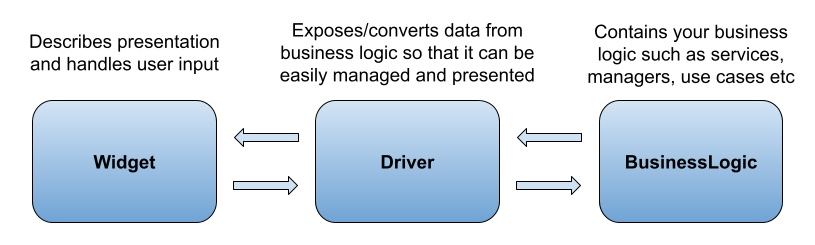
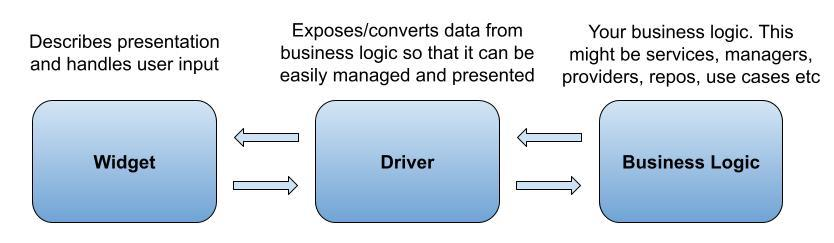
Feature/updates widget driver readme (#131)
* Updates the readme for the widget_driver

* Adds min versions to widget_driver_generator dependencies

* Updates the order in which the DependencyResolver resolves.. First it tries out mock now during testing

* Adds flutter-style preprocesser for removing of TestDriver code when running ReleaseBuilds

* Updates gitignore to exclude some macOS-example-app files

diff --git a/widget_driver/lib/src/dependency_resolver.dart b/widget_driver/lib/src/dependency_resolver.dart
@@ -1,32 +1,34 @@
 import 'package:flutter/material.dart';
 import 'utils/runtime_environment_info.dart';
 
-/// Use this class to resolve dependencies in your widgets/drivers.
+/// You can use this class to resolve dependencies in your widgets/drivers.
 /// This class offers 2 approaches to help you write better tests:
 ///
 /// First:
 /// If you resolve dependencies in your widgets, then this class adds a safe way to resolve these dependencies
 /// during testing where ancestor widgets are not forced to provide a mocked instances of your dependencies.
+/// This is done with the use of Test Default Values.
 ///
 /// Second:
-/// If you resolve dependencies in your drivers where you don't know exactly how to inject new values for these
+/// If you resolve dependencies in your drivers where you don't know exactly how to inject override/mock values for these
 /// dependencies, then this class helps you provide an easy way to inject these dependencies during testing.
 ///
 ///
 /// How it works:
-/// When you are not running tests, then the `DependencyResolver` will just
+/// When you are not running tests, then the [DependencyResolver] will just
 /// get the dependency instance according to the provided builder method.
 ///
-/// But, during testing the `DependencyResolver` will first try to get the dependency instance using your builder,
-/// but if this fails and throws (because for example no ancestor widget registered the dependency),
-/// then the `DependencyResolver` will:
+/// But, during testing the [DependencyResolver] will do this:
 ///
-/// 1: Try to find the dependency using the `tryToGetDependencyFromBuildContext` method.
-/// In here you can specify yourself how this look up should work. E.g. you could use the Provider package and
-/// look up the widget tree using `context.read<MyDependency>()`.
-/// If the dependency is found, then it is returned and used. Otherwise it continues to the second approach.
+/// 1: First it will check if someone registered a custom instance for the given type
+/// using the [tryToGetDependencyFromBuildContext] method. If so then that is used and returned.
+/// --> You can use this approach to inject mock values.
 ///
-/// 2: In the second approach it will check if there is a registered test default builder for the given dependency.
+/// 2: If no mock override was provided, then it will try to get the dependency instance using your builder.
+/// If that works and the dependency could be resolved, then it gets returned.
+///
+/// 3: If the normal builder fails to resolve the real dependency, then as a final step, the the [DependencyResolver]
+/// will check if there is a registered test default builder for the given dependency.
 /// If that exists, then it tries run that builder and return the value.
 /// If there is no registered test default builder, then the original error is thrown.
 ///
@@ -36,10 +38,10 @@ import 'utils/runtime_environment_info.dart';
 /// 1 - Widget Example:
 ///
 /// This is how you use this in your widget where you resolve dependencies:
-/// Step one: At the bottom of your widget class, create a subclass of `DependencyResolver` and implement the
-/// `registerTestDefaultFallbackValues` method. In this method you register the test default instances.
-/// This should be an empty implementation instance. Like a mock object.
-/// You typically would only have one concrete implementation of `DependencyResolver` per widget where you use it.
+/// Step one: At the bottom of your widget class, create a subclass of [DependencyResolver] and implement the
+/// [registerTestDefaultFallbackValues] method. In this method you register the test default instances.
+/// This should be an "empty implementation" instance. Like a mock object.
+/// You typically would only have one concrete implementation of [DependencyResolver] per widget where you use it.
 ///
 /// ```dart
 /// class MyServiceProviderWidget extends StatelessWidget {
@@ -58,7 +60,7 @@ import 'utils/runtime_environment_info.dart';
 /// class TestDefaultMyService extends EmptyDefault implements TestDefaultMyService {}
 /// ```
 ///
-/// And then you use this concrete version of `DependencyResolver` in your widget to create that instance.
+/// And then you use this concrete version of [DependencyResolver] in your widget to create that instance.
 /// Like this:
 ///
 /// ```dart
@@ -79,7 +81,7 @@ import 'utils/runtime_environment_info.dart';
 ///
 /// BUT: if you run this during tests, and you never registered any type for `SomeStuff` in the buildContext.
 /// Normally, this would break your test build and throw an exception. In this case however, we will use your
-/// test default instance of your `MyService`, provided in the registerTestDefaultBuilder() method.
+/// test default instance of your `MyService`, provided in the [registerTestDefaultBuilder] method.
 /// This is useful since it simplifies the WidgetTesting for any ancestor widget which might have your widget
 /// as a child. Since normally, all ancestor widgets would need to provide all the dependencies to all their children.
 /// Using this approach how ever, in testing, your ancestor
@@ -99,8 +101,8 @@ import 'utils/runtime_environment_info.dart';
 /// to create a lot of logic above your driver and wrap it in some localization providing widget.
 /// This adds a lot of clutter-setup-mock-code to your driver tests.
 ///
-/// The `DependencyResolver` can help you here. Create a shared `DependencyResolver` and override the
-/// `tryToGetDependencyFromBuildContext` method, and in there, for example use the Provider package like this:
+/// The [DependencyResolver] can help you here. Create a shared [DependencyResolver] and override the
+/// [tryToGetDependencyFromBuildContext] method, and in there, for example use the Provider package like this:
 ///
 /// ```dart
 /// class Resolver extends DependencyResolver {
@@ -139,14 +141,24 @@ abstract class DependencyResolver {
 
   /// When running normally (outside of tests) this returns the instance which your builder returns.
   ///
-  /// During tests, this tries to return the instance which your builder returns.
-  /// But if this fails for some reason (e.g. you did not provide a mock version of that type),
-  /// then this method:
+  /// During tests, this tries to return a mocked version if it exists.
+  /// If there is no mock then it tries to return the instance which your builder returns.
   ///
-  /// First: Tries to return the dependency for the given type using the `tryToGetDependencyFromBuildContext` method.
-  /// Second: Tries to return the registered test default value for the given type.
-  /// Finally: If of both these fail, then this method throws the exception which was thrown by the builder method.
+  /// But if this fails for some reason (e.g. you did not provide a mock version of that type),
+  /// then it tries to return the registered test default value for the given type.
+  ///
+  /// Finally, if there is no test default value,
+  /// then this method throws the exception which was thrown by the builder method.
   T get<T>(T Function() builder) {
+    final isRunningInTest = _environmentInfo.isRunningInTestEnvironment();
+
+    if (isRunningInTest) {
+      final buildContextInstance = tryToGetDependencyFromBuildContext<T>(_context);
+      if (buildContextInstance != null) {
+        return buildContextInstance;
+      }
+    }
+
     try {
       final T value = builder();
       return value;
@@ -154,13 +166,8 @@ abstract class DependencyResolver {
       // No dependency could be loaded from the provided builder.
       // Probably since the builder tries to access a dependency from the BuildContext which was not there.
       // This is a common issue when ancestor widgets renders child widgets which tries to resolve dependencies.
-
-      // If we are running tests, then try to return the dependency from build context or test default value.
-      if (_environmentInfo.isRunningInTestEnvironment()) {
-        final buildContextInstance = tryToGetDependencyFromBuildContext<T>(_context);
-        if (buildContextInstance != null) {
-          return buildContextInstance;
-        }
+      // If we are running tests, then try to return the test default value.
+      if (isRunningInTest) {
         final testDefaultInstance = _tryToGetTestDefaultInstance<T>();
         if (testDefaultInstance != null) {
           return testDefaultInstance;
@@ -186,11 +193,13 @@ abstract class DependencyResolver {
   /// ```
   ///
   /// where the `TestDefaultMyService` and `TestDefaultThemeData` are some empty/mock-like fake implementations.
+  @protected
   void registerTestDefaultFallbackValues();
 
   /// Call this to register a builder which creates a test default instance for a given type.
   /// This builder/created-instance is used in testing when the normal
   /// `DependencyResolver-get` method fails to create your dependency.
+  @protected
   void registerTestDefaultBuilder<T>(T Function() builder) {
     _defaultTestValueMap[T] = builder;
   }
@@ -211,6 +220,7 @@ abstract class DependencyResolver {
   ///     }
   /// }
   /// ```
+  @protected
   T? tryToGetDependencyFromBuildContext<T>(BuildContext context);
 
   T? _tryToGetTestDefaultInstance<T>() {

diff --git a/widget_driver/test/dependency_resolver_test.dart b/widget_driver/test/dependency_resolver_test.dart
@@ -244,10 +244,9 @@ void main() {
       });
 
       group('When TestDefault is registered and dependency from context:', () {
-        testWidgets('Returns dependency from builder when builder does not throw.', (tester) async {
-          const expectedStringDependency = 'Some string I want to inject';
+        testWidgets('Returns dependency from BuildContext when builder does not throw.', (tester) async {
           final String Function() stringBuilder = () {
-            return expectedStringDependency;
+            return 'Some string I want to inject';
           };
 
           final resolver = await _getResolver(
@@ -259,7 +258,7 @@ void main() {
 
           final myStringDependency = resolver.get(() => stringBuilder());
 
-          expect(myStringDependency, equals(expectedStringDependency));
+          expect(myStringDependency, equals('DependencyFromContextString'));
         });
 
         testWidgets('Returns dependency from BuildContext when builder does throw and dependency was injected.',

diff --git a/widget_driver/lib/src/utils/runtime_environment_info.dart b/widget_driver/lib/src/utils/runtime_environment_info.dart
@@ -13,6 +13,11 @@ class RuntimeEnvironmentInfo {
 
   /// Returns `true` if the current runtime is in a test environment and tests are running.
   bool isRunningInTestEnvironment() {
-    return _platformEnvironment.containsKey(_flutterTestEnvKey);
+    bool isRunningInTest = false;
+    assert(() {
+      isRunningInTest = _platformEnvironment.containsKey(_flutterTestEnvKey);
+      return true;
+    }());
+    return isRunningInTest;
   }
 }

diff --git a/widget_driver/lib/src/drivable_widget.dart b/widget_driver/lib/src/drivable_widget.dart
@@ -99,7 +99,12 @@ class _DriverWidgetState<Driver extends WidgetDriver> extends State<DrivableWidg
   }
 
   bool _isRunningInTestEnvironment() {
-    return widget._environmentInfo.isRunningInTestEnvironment();
+    var isRunningInTest = false;
+    assert(() {
+      isRunningInTest = widget._environmentInfo.isRunningInTestEnvironment();
+      return true;
+    }());
+    return isRunningInTest;
   }
 
   Driver _getRealDriver() {

diff --git a/widget_driver/example/lib/resolver/resolver.dart b/widget_driver/example/lib/resolver/resolver.dart
@@ -1,12 +1,15 @@
+import 'package:meta/meta.dart';
 import 'package:provider/provider.dart';
 import 'package:widget_driver/widget_driver.dart';
 
 class Resolver extends DependencyResolver {
   Resolver(BuildContext context) : super(context);
 
+  @protected
   @override
   void registerTestDefaultFallbackValues() {}
 
+  @protected
   @override
   T? tryToGetDependencyFromBuildContext<T>(BuildContext context) {
     try {

diff --git a/widget_driver/doc/widget_drivers.md b/widget_driver/doc/widget_drivers.md
@@ -66,20 +66,20 @@ part 'counter_widget_driver.g.dart';
 @GenerateTestDriver()
 class CounterWidgetDriver extends WidgetDriver {
   final CounterService _counterService;
-  final Locator _locator;
+  late Locator _locator;
   StreamSubscription? _subscription;
 
-  CounterWidgetDriver(
-    BuildContext context, {
+  CounterWidgetDriver({
     CounterService? counterService,
-  })  : _counterService = counterService ?? GetIt.I.get<CounterService>(),
-        _locator = context.read,
-        super(context) {
-
+  })  : _counterService = counterService ?? GetIt.I.get<CounterService>() {
     _subscription = _counterService.valueStream.listen((_) {
       notifyWidget();
     });
+  }
 
+  @override
+  void didUpdateBuildContext(BuildContext context) {
+    _locator = context.read;
   }
 
   @TestDriverDefaultValue('The title of the counter')
@@ -103,21 +103,17 @@ class CounterWidgetDriver extends WidgetDriver {
     _subscription?.cancel();
     super.dispose();
   }
-
-  @override
-  void didUpdateBuildContextDependencies(BuildContext context) {}
 }
 ```
 
 There are three important concepts here.
 
-1. The dependencies are loaded/created/resolved in the constructor of the `driver`.  
-(If the driver depends on an inherited widgets, then you can update these dependencies in the `didUpdateBuildContextDependencies` method)
+1. The dependencies are loaded/created/resolved in the constructor of the `driver` or in the `didUpdateBuildContext` method.  
 1. All the properties/methods which the driver wants to expose to the widgets needs to be annotated and given default values.
 1. Whenever important data has changed in the `driver` and you want the widget to update: call `notifyWidget()`
 
 **Let's start talking about the dependencies.**  
-Any type of dependencies which your `driver` needs to be able to give your widget the correct data has to be loaded/created/resolved in the constructor of the `driver`. (And potentially updated in the `didUpdateBuildContextDependencies` and/or `didUpdateProvidedProperties` methods.)
+Any type of dependencies which your `driver` needs to be able to give your widget the correct data has to be loaded/created/resolved in the constructor of the `driver` and/or in the `didUpdateBuildContext` method and/or `didUpdateProvidedProperties` method.
 
 You get three option here for how to resolve these dependencies. Either you can grab them out of the `BuildContext` (for example if you are using the `Provider` package). Or you can use some DI package like `get_it` and then just grab the dependencies from the DI container. Or you can pass in the dependencies to your driver using the `@driverProvidableProperty` annotation.
 

diff --git a/widget_driver/doc/drivable_widgets.md b/widget_driver/doc/drivable_widgets.md
@@ -29,7 +29,7 @@ Don't grab data directly in the widget from some other data source like a `BLoC`
 
 If there is data which your widget needs from some other source, then put the logic which grabs that data in the `driver`. The `driver` has access to the BuildContext and can easily resolve that data. And then the widget can access it via the `driver`.
 
-The important part why you need to **always** go via the `driver`: When you would grab data from other sources, you can not test your widget so easily any more!
+The important part why you need to **always** go via the `driver`: When you would grab data from other sources, you cannot test your widget so easily any more!
 
 If you always use the `driver` as a data provider in your widget, then when you test your widget, that data will be provided via the `TestDriver` and you do not need to mock it!
 

diff --git a/widget_driver/doc/code_generation.md b/widget_driver/doc/code_generation.md
@@ -34,6 +34,6 @@ This is pretty easy. It basically just contains two steps:
 
 2. Run the build runner:  
     ```console
-    flutter pub run build_runner build
+    flutter pub run build_runner build --delete-conflicting-outputs
     ```
     Read more about using the `build_runner` [here](https://pub.dev/packages/build_runner).

diff --git a/widget_driver/example/README.md b/widget_driver/example/README.md
@@ -40,7 +40,7 @@ The example app will show you how to use both approaches.
 To generate the needed `WidgetDriver` code then run this command from the root folder of the example app:
 
 ```shell
-flutter pub run build_runner build
+flutter pub run build_runner build --delete-conflicting-outputs
 ```
 
 ## Testing

diff --git a/widget_driver_generator/example/README.md b/widget_driver_generator/example/README.md
@@ -64,5 +64,5 @@ This works with named, positional and/or optional variables.
 In order to generate TestDrivers and WidgetDriverProviders just run this command:
 
 ```console
-flutter pub run build_runner build
+flutter pub run build_runner build --delete-conflicting-outputs
 ```

diff --git a/widget_driver/CHANGELOG.md b/widget_driver/CHANGELOG.md
@@ -1,8 +1,10 @@
 # CHANGELOG
 
-## next version comes here
+## 0.4.0
 
 * Updates the README.
+* Updates the order in which the DependencyResolver resolves dependencies.
+* Removes all TestDriver code creation when running release builds.
 
 ## 0.3.0
 

diff --git a/widget_driver_generator/CHANGELOG.md b/widget_driver_generator/CHANGELOG.md
@@ -1,8 +1,9 @@
 # CHANGELOG
 
-## next version comes here
+## 0.4.0
 
 * Updates the README.
+* Specified minimum versions to some pubspec dependencies.
 
 ## 0.3.0
 
